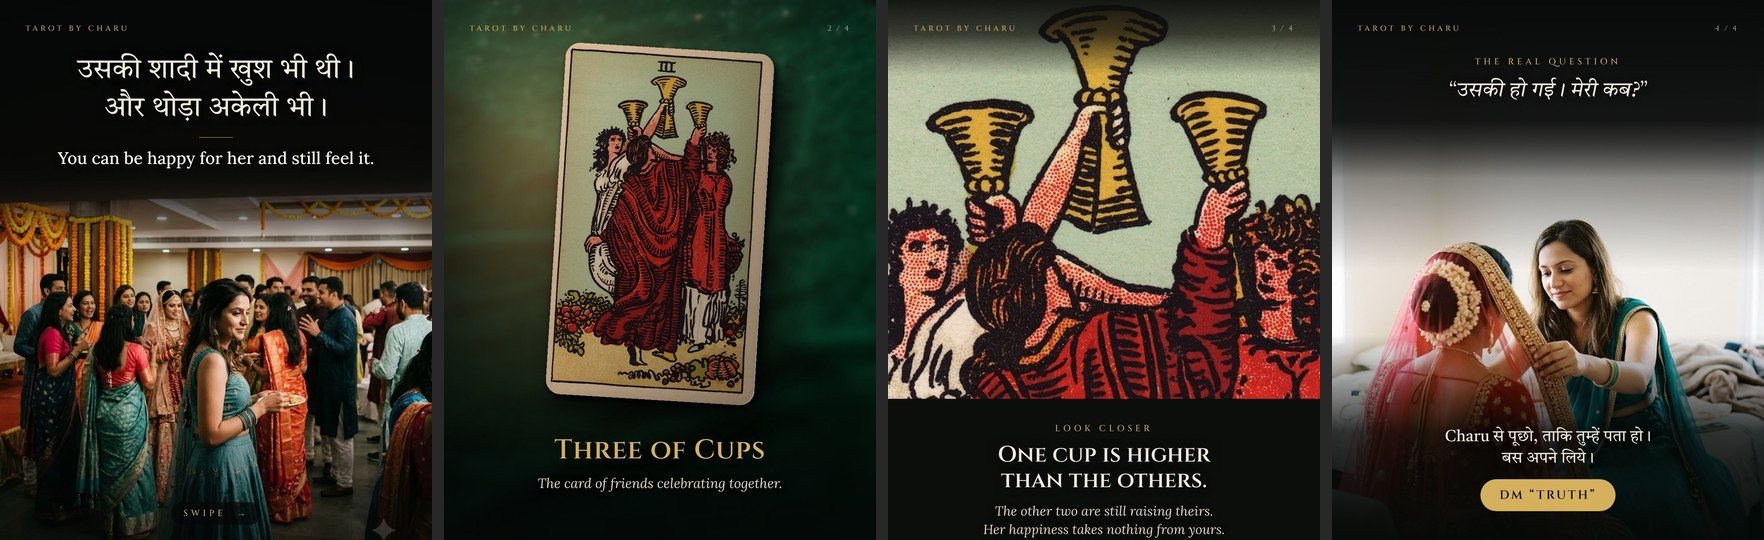
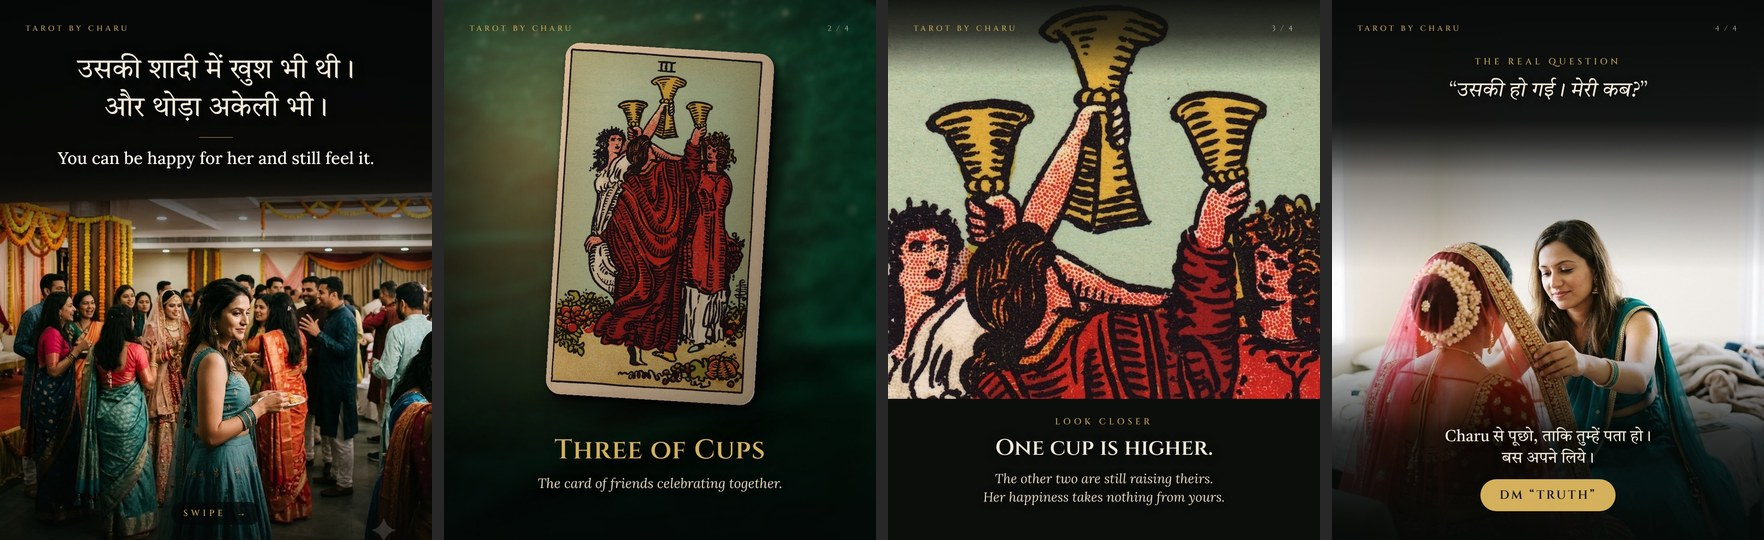
IG kit: add Instagram frame check and phone view; fix 16 Nov slide 3 running off the bottom (r2)
Claude-Session: https://claude.ai/code/session_01REQEWzfh3Whx3P44rSbg3G

Changed region(s): [[0.5612, 0.7704, 0.6859, 1.0]]

diff --git a/ig-kit/phone_view.py b/ig-kit/phone_view.py
@@ -1,0 +1,104 @@
+#!/usr/bin/env python3
+"""Show a carousel the way it looks on a phone, as a check before publishing.
+
+Usage: python3 -I ig-kit/phone_view.py <post dir> <out.jpg> [slide.jpg ...]
+
+Input:  caption.txt in <post dir>; the slides given, or else the newest -rN of each 01-*.jpg, 02-*.jpg ... in <post dir>.
+Output: <out.jpg>, a sheet of the profile grid followed by each slide in the feed.
+
+This is a mock in Chrome's Pixel 7 phone mode, not the real Instagram app:
+- The 3:4 grid crop was measured on the live profile on 2 Nov 2026 (275x367 tiles, 1080x1350 source).
+- The feed layout and the top-right counter pill follow the app from memory. They are unverified.
+"""
+import html
+import pathlib
+import re
+import sys
+import tempfile
+
+from PIL import Image
+from playwright.sync_api import sync_playwright
+
+CAPTION_FOLD = 125  # characters shown before "more"
+BASE_CSS = """<!doctype html><meta charset=utf-8><meta name=viewport content="width=device-width,initial-scale=1"><style>
+*{margin:0;box-sizing:border-box;font-family:Inter,Roboto,Arial,sans-serif}
+body{background:#fff;color:#111;width:412px}
+.head{display:flex;align-items:center;gap:10px;padding:10px 12px;font-weight:600;font-size:14px}
+.av{width:32px;height:32px;border-radius:50%;background:#c9c9c9}
+.frame{position:relative;width:412px;height:515px;overflow:hidden}
+.frame img{width:100%;height:100%;display:block}
+.pill{position:absolute;top:12px;right:12px;background:rgba(20,20,20,.72);color:#fff;font-size:12px;font-weight:600;padding:5px 11px;border-radius:13px}
+.dots{display:flex;justify-content:center;gap:4px;padding:10px 0 6px}.dots i{width:6px;height:6px;border-radius:50%;background:#cfcfcf}.dots i.on{background:#0095f6}
+.cap{padding:2px 12px 12px;font-size:14px;line-height:1.35}.cap b{font-weight:600}.more{color:#777}
+.grid{display:grid;grid-template-columns:repeat(3,1fr);gap:2px}
+.tile{aspect-ratio:3/4;background:#e9e9e9;overflow:hidden}.tile img{width:100%;height:100%;object-fit:cover;object-position:center;display:block}
+.note{padding:8px 12px;font-size:11px;color:#777}
+</style>"""
+
+
+def newest_slides(slides_dir):
+    """Return the newest revision of each numbered slide, in order."""
+    best = {}
+    for path in pathlib.Path(slides_dir).glob("[0-9][0-9]-*.jpg"):
+        match = re.search(r"-r(\d+)$", path.stem)
+        rev = int(match.group(1)) if match else 0
+        key = path.stem[:2]
+        if key not in best or rev > best[key][0]:
+            best[key] = (rev, path)
+    return [best[k][1] for k in sorted(best)]
+
+
+def fold_caption(text):
+    """Cut the caption where Instagram folds it."""
+    flat = " ".join(text.split())
+    return flat if len(flat) <= CAPTION_FOLD else flat[:CAPTION_FOLD].rstrip()
+
+
+def grid_page(cover):
+    tiles = f'<div class="tile"><img src="file://{cover}"></div>' + '<div class="tile"></div>' * 5
+    return f'{BASE_CSS}<div class="head"><div class="av"></div>tarotcharutarot</div><div class="grid">{tiles}</div><div class="note">Profile grid. Mock in phone mode.</div>'
+
+
+def feed_page(path, index, total, caption):
+    dots = "".join(f'<i class="{"on" if k == index else ""}"></i>' for k in range(total))
+    return (f'{BASE_CSS}<div class="head"><div class="av"></div>tarotcharutarot</div>'
+            f'<div class="frame"><img src="file://{path}"><div class="pill">{index + 1}/{total}</div></div>'
+            f'<div class="dots">{dots}</div><div class="cap"><b>tarotcharutarot</b> {html.escape(caption)}<span class="more">... more</span></div>')
+
+
+def build(post_dir, out, given):
+    """Render the grid and every slide at Pixel 7 size, and join them into one sheet."""
+    slides = [pathlib.Path(g) for g in given] or newest_slides(post_dir)
+    if not slides:
+        sys.exit(f"no slides found in {post_dir}")
+    caption_file = pathlib.Path(post_dir) / "caption.txt"
+    caption = fold_caption(caption_file.read_text(encoding="utf-8")) if caption_file.exists() else ""
+    pages = [grid_page(slides[0].resolve())]
+    pages += [feed_page(s.resolve(), k, len(slides), caption) for k, s in enumerate(slides)]
+    shots = []
+    with sync_playwright() as p, tempfile.TemporaryDirectory() as tmp:
+        browser = p.chromium.launch()
+        context = browser.new_context(**p.devices["Pixel 7"])
+        page = context.new_page()
+        for k, markup in enumerate(pages):
+            source = pathlib.Path(tmp) / f"{k}.html"
+            source.write_text(markup, encoding="utf-8")
+            page.goto(f"file://{source}")
+            page.wait_for_timeout(300)
+            shot = pathlib.Path(tmp) / f"{k}.png"
+            page.screenshot(path=str(shot))
+            shots.append(Image.open(shot).convert("RGB").copy())
+        browser.close()
+    width = 412
+    scaled = [s.resize((width, round(s.height * width / s.width)), Image.LANCZOS) for s in shots]
+    sheet = Image.new("RGB", ((width + 12) * len(scaled) - 12, max(s.height for s in scaled)), (40, 40, 40))
+    for k, shot in enumerate(scaled):
+        sheet.paste(shot, (k * (width + 12), 0))
+    sheet.save(out, quality=90)
+    print(out)
+
+
+if __name__ == "__main__":
+    if len(sys.argv) < 3:
+        sys.exit(__doc__)
+    build(sys.argv[1], sys.argv[2], sys.argv[3:])

diff --git a/ig-kit/render.py b/ig-kit/render.py
@@ -20,7 +20,7 @@ Spec (all text fields: plain text, "\n" = line break; Devanagari is detected and
 }
 Writes OUTDIR/01-hook.jpg ... and OUTDIR/contact.jpg (all slides side by side, for review).
 """
-import html, json, pathlib, re, sys, urllib.request
+import html, json, pathlib, re, subprocess, sys, urllib.request
 import numpy as np
 from PIL import Image, ImageFilter, ImageDraw
 
@@ -245,6 +245,38 @@ READ_JS = """() => {
 }"""
 
 
+# Instagram frame limits for a 1080x1350 carousel slide.
+# The grid shows a centred 3:4 crop, which cuts 34 px from each side (measured on the live profile, 2 Nov 2026).
+# 40 px at the sides and 80 px at the top and bottom come from krumzi.com's carousel size guide.
+FRAME_SIDE = 40
+FRAME_END = 80
+FRAME_JS = """() => {
+  const out = [];
+  for (const el of document.querySelectorAll('body *')) {
+    if (el.closest('.brand,.num,.swipe') || el.tagName === 'SCRIPT') continue;  // fixed furniture, placed by the kit
+    for (const n of el.childNodes) {
+      if (n.nodeType !== 3 || !n.textContent.trim()) continue;
+      const r = document.createRange(); r.selectNodeContents(n);
+      const b = r.getBoundingClientRect();
+      out.push({text: n.textContent.trim().slice(0, 40), x0: b.left, x1: b.right, y0: b.top, y1: b.bottom});
+    }
+  }
+  return out;
+}"""
+
+
+def frame_problems(items, name):
+    """Input: text boxes in slide pixels, and the slide name. Output: one line for each box too close to an edge."""
+    probs = []
+    for it in items:
+        gaps = {"left": it["x0"], "right": W - it["x1"], "top": it["y0"], "bottom": H - it["y1"]}
+        limits = {"left": FRAME_SIDE, "right": FRAME_SIDE, "top": FRAME_END, "bottom": FRAME_END}
+        for edge, gap in gaps.items():
+            if gap < limits[edge]:
+                probs.append(f"{name}: '{it['text']}' is {gap:.0f} px from the {edge} edge, needs {limits[edge]}")
+    return probs
+
+
 def _lum(rgb):
     def f(c):
         c /= 255
@@ -309,12 +341,15 @@ def main():
     from playwright.sync_api import sync_playwright
     outs = []
     problems = []
+    frame = []
     with sync_playwright() as p:
         b = p.chromium.launch(); pg = b.new_page(viewport={"width": W, "height": H})
         for i, nm in enumerate(names, 1):
             pg.goto(f"file://{work / f'{i:02d}.html'}"); pg.wait_for_timeout(900)
             png = work / f"{nm}.png"
             pg.screenshot(path=str(png))
+            if spec.get("format") != "reel":
+                frame += frame_problems(pg.evaluate(FRAME_JS), nm)
             problems += check_readable(pg, nm)
             out = outdir / f"{nm}.jpg"
             Image.open(png).convert("RGB").save(out, quality=92)
@@ -327,11 +362,19 @@ def main():
         sheet.paste(im, (k * 444, 0))
     sheet.save(outdir / "contact.jpg", quality=88)
     print(outdir / "contact.jpg")
+    if spec.get("format") != "reel":
+        subprocess.run([sys.executable, "-I", str(KIT / "phone_view.py"), str(spec_path.parent), str(outdir / "phone.jpg")] + [str(o) for o in outs], check=True)
+    if frame:
+        print("FRAME FAIL (text too close to the edge of the Instagram frame; fix the spec, then re-render):")
+        for x in frame:
+            print(" -", x)
     if problems:
         print("READABILITY FAIL (fix the text placement or the photo, then re-render):")
         for x in problems:
             print(" -", x)
         sys.exit(2)
+    if frame:
+        sys.exit(3)
 
 
 if __name__ == "__main__":

diff --git a/CONTENT_RULES.md b/CONTENT_RULES.md
@@ -65,6 +65,7 @@ Caption form: "DM TRUTH to ask Charu, so that you know. Just for yourself."
 - Every word visible in an image must be correct and readable. That includes card names printed in base photos. If a card label in a photo is small or garbled, don't use that photo. A blur patch over it looks worse than the problem.
 - All text must be easy to read on a phone, above all the English line. Rajat on a slide where it sat on bright garlands: "English is barely readable." `render.py` now keeps text on a dark band and stops with READABILITY FAIL below 4.5:1 contrast (3:1 for large text). Fix the placement or photo; never lower the limit.
 - Label lines need proper punctuation, e.g. "A kind ‘no’ is still love." not "A kind no is still love". Quote a word when it is being said, and end a full sentence with a full stop.
+- Keep text inside the Instagram frame. Rajat, 2 Nov 2026: "check for instagram borders.. run every post through emulator." `render.py` stops with FRAME FAIL if text is under 40 px from a side or 80 px from the top or bottom, and writes `phone.jpg`: the grid crop and each slide at Pixel 7 size. Look at `phone.jpg` before the row goes up for approval. Fix the spec; never lower the limits. It is a mock in phone mode, not the real app: no Android emulator can run here (no `adb`, no `/dev/kvm`).
 - Match the photo to the card when you can. A Card Insight post about Strength shouldn't show a different card if a better photo exists.
 
 ## 5. Photos and video

diff --git a/ig-kit/README.md b/ig-kit/README.md
@@ -4,7 +4,8 @@ Used by the `tarot-ig-publisher` skill. Everything renders in a cloud workspace 
 
 | File | What it does |
 |---|---|
-| `render.py spec.json OUT/` | Carousel or Reel slides, 1080x1350 JPEG, plus `contact.jpg` for review |
+| `render.py spec.json OUT/` | Carousel or Reel slides, 1080x1350 JPEG, plus `contact.jpg` for review. For carousels, also `phone.jpg`; exit 3 = text outside the Instagram frame |
+| `phone_view.py POST_DIR out.jpg [slides...]` | Mock phone view of a carousel: 3:4 grid crop and each slide in the feed, in Chrome's Pixel 7 mode. Not the real app |
 | `reel.py OUT/ reel.mp4 [seed]` | 1080x1920 Reel from rendered slides, with an original synthesized track |
 | `music.py DUR CUTS out.wav [seed]` | Tanpura drone + pad + bells on each cut. No samples, no licensed audio |
 | `flowreel.py spec.json OUT/` | Series Reel from scenes (AI clip with timed text, chat bubbles, card end slides), fade-through-black, 2 s hold, brand music; checks the Instagram safe area, length and frame-1 text; writes `reel.mp4`, `contact.jpg`, `safezone.jpg`, `build.json` (exit 1 = do not publish) |
